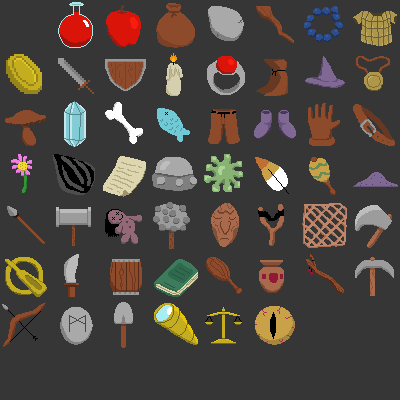
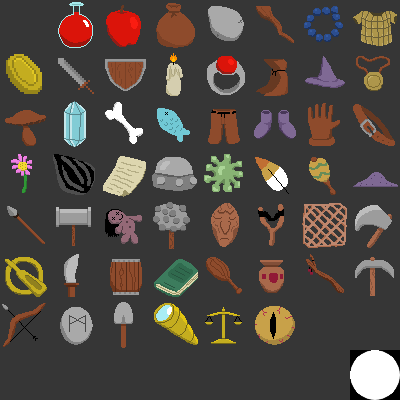
Some InventoryNode touch-ups

Changed region(s): [[0.87, 0.87, 1.0, 1.0]]

diff --git a/core/src/main/java/net/lugocorp/kingdom/menu/game/InventoryNode.java b/core/src/main/java/net/lugocorp/kingdom/menu/game/InventoryNode.java
@@ -39,6 +39,7 @@ public class InventoryNode implements MenuNode {
     public static final int SIDE = 50;
     private final MenuPopup popup = new MenuPopup();
     private final Optional<Inventory> equipped;
+    private final MenuNode unitCanEquipMenu;
     private final Inventory items;
     private final GameView view;
     private final int x;
@@ -55,6 +56,7 @@ public class InventoryNode implements MenuNode {
         this.view = view;
         this.x = x;
         this.y = y;
+        this.unitCanEquipMenu = new ListNode().add(new TextNode(view.av, "This unit can equip an item here"));
     }
 
     /**
@@ -200,7 +202,7 @@ public class InventoryNode implements MenuNode {
     /**
      * Returns which Inventory the given total index refers to
      */
-    private Inventory getInventoryByTotalIndex(int index) {
+    private Inventory getInventoryByTotalIndex(int i) {
         return this.equipped.map((Inventory inv) -> i < inv.getMax() ? inv : this.items).orElse(this.items);
     }
 
@@ -250,10 +252,13 @@ public class InventoryNode implements MenuNode {
                 }
                 final Drawable icon = new Drawable(av.loaders.sprites, "placeholder");
                 final Optional<Item> target = this.getItemFromTotalIndex(index);
+                final InventoryType type = this.getInventoryByTotalIndex(index).type;
                 target.flatMap((Item item) -> item.icon).ifPresent((String s) -> icon.setSprite(s));
                 icon.render(av.sprites, flip.x + b * (InventoryNode.SIDE + InventoryNode.MARGIN), flip.y);
-                // TODO make it circular if this.getInventoryByTotalIndex(i).type ==
-                // InventoryType.EQUIP
+                if (type == InventoryType.EQUIP) {
+                    icon.setSprite("equip frame");
+                    icon.render(av.sprites, flip.x + b * (InventoryNode.SIDE + InventoryNode.MARGIN), flip.y);
+                }
             }
         }
         av.sprites.end();
@@ -353,6 +358,7 @@ public class InventoryNode implements MenuNode {
         // Set mini menu for the selected item
         final int i = this.getHoveredItemIndex(bounds, curr);
         final Optional<Item> target = this.getItemFromTotalIndex(i);
+        final InventoryType type = this.getInventoryByTotalIndex(i).type;
         if (target.isPresent()) {
             final Item item = target.get();
 
@@ -372,6 +378,8 @@ public class InventoryNode implements MenuNode {
                 this.cachedHoverMenu = Optional.of(new Tuple<Item, MenuNode>(item, root));
             }
             this.popup.update(bounds, curr, this.cachedHoverMenu.get().b);
+        } else if (type == InventoryType.EQUIP) {
+            this.popup.update(bounds, curr, this.unitCanEquipMenu);
         } else {
             this.popup.close();
         }

diff --git a/content/src/main/java/net/lugocorp/kingdom/content/vanilla/VanillaMod.java b/content/src/main/java/net/lugocorp/kingdom/content/vanilla/VanillaMod.java
@@ -116,6 +116,7 @@ public class VanillaMod implements GameMod {
         sprites.register(Labels.asset_telescope, Labels.asset_items, InventoryNode.SIDE, InventoryNode.SIDE, 3, 6);
         sprites.register(Labels.asset_scales, Labels.asset_items, InventoryNode.SIDE, InventoryNode.SIDE, 4, 6);
         sprites.register(Labels.asset_eye, Labels.asset_items, InventoryNode.SIDE, InventoryNode.SIDE, 5, 6);
+        sprites.register(Labels.asset_equip_frame, Labels.asset_items, InventoryNode.SIDE, InventoryNode.SIDE, 7, 7);
 
         // Ability sprites
         sprites.register(Labels.asset_bite, Labels.asset_abilities, ActionNode.SIDE, ActionNode.SIDE, 0, 0);

diff --git a/content/src/main/java/net/lugocorp/kingdom/content/Labels.java b/content/src/main/java/net/lugocorp/kingdom/content/Labels.java
@@ -20,6 +20,7 @@ public class Labels {
     public static final String asset_snow = "snow";
     public static final String asset_taiga = "taiga";
     public static final String asset_placeholder = "placeholder";
+    public static final String asset_equip_frame = "equip frame";
     public static final String asset_potion = "potion";
     public static final String asset_apple = "apple";
     public static final String asset_pouch = "pouch";
